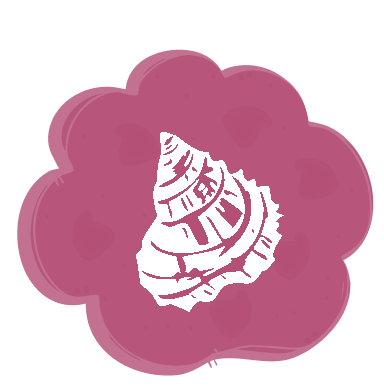
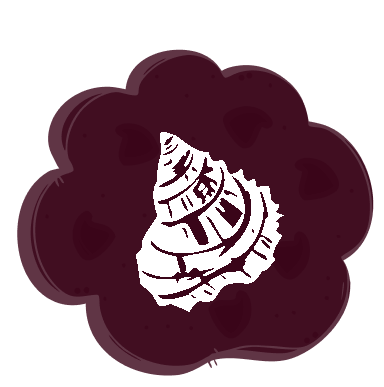
style: use requested card color

diff --git a/memory-game/asset-palette.test.js b/memory-game/asset-palette.test.js
@@ -9,7 +9,7 @@ const CARD_ASSETS = [
   "Seagrass.png", "MantaRay.png", "Whale.png", "Coral.png",
 ];
 
-const EXPECTED_COLORS = new Set(["b44f76", "ffffff"]);
+const EXPECTED_COLORS = new Set(["3a0519", "ffffff"]);
 
 function paeth(left, above, upperLeft) {
   const estimate = left + above - upperLeft;
@@ -66,7 +66,7 @@ function decodeRgbaPng(buffer) {
   return pixels;
 }
 
-test("every marine card uses only logo dark pink and white", async () => {
+test("every marine card uses only the requested #3A0519 and white", async () => {
   for (const asset of CARD_ASSETS) {
     const pixels = decodeRgbaPng(await readFile(`assets/${asset}`));
     const colors = new Set();
@@ -78,7 +78,7 @@ test("every marine card uses only logo dark pink and white", async () => {
   }
 });
 
-test("the cookie back uses the logo dark pink", async () => {
+test("the cookie back uses the requested #3A0519", async () => {
   const cookie = await readFile("assets/cookie-card.svg", "utf8");
-  assert.match(cookie, /fill="#B44F76"/);
+  assert.match(cookie, /fill="#3A0519"/);
 });
